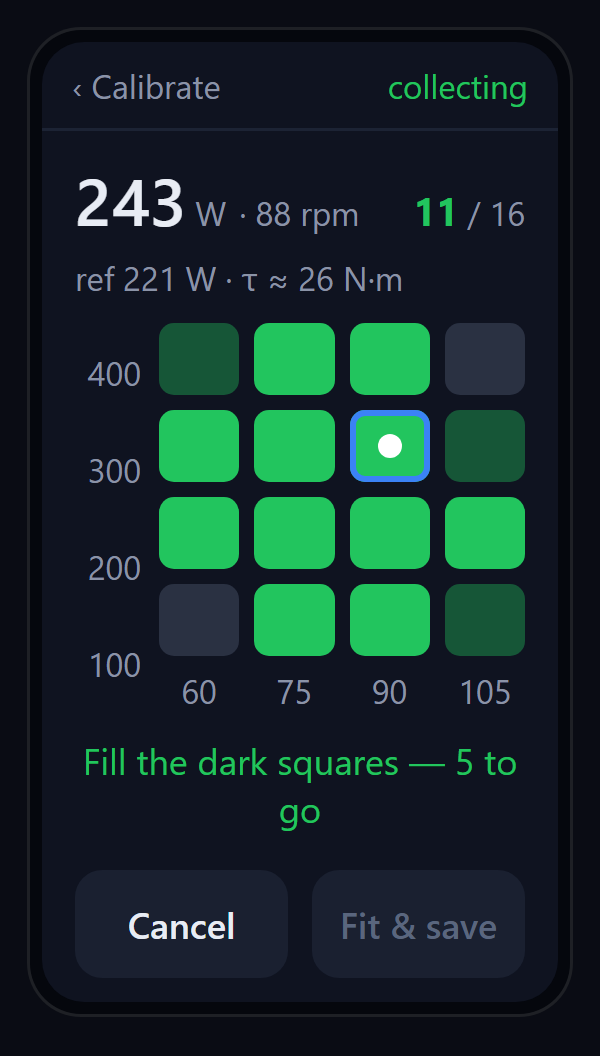
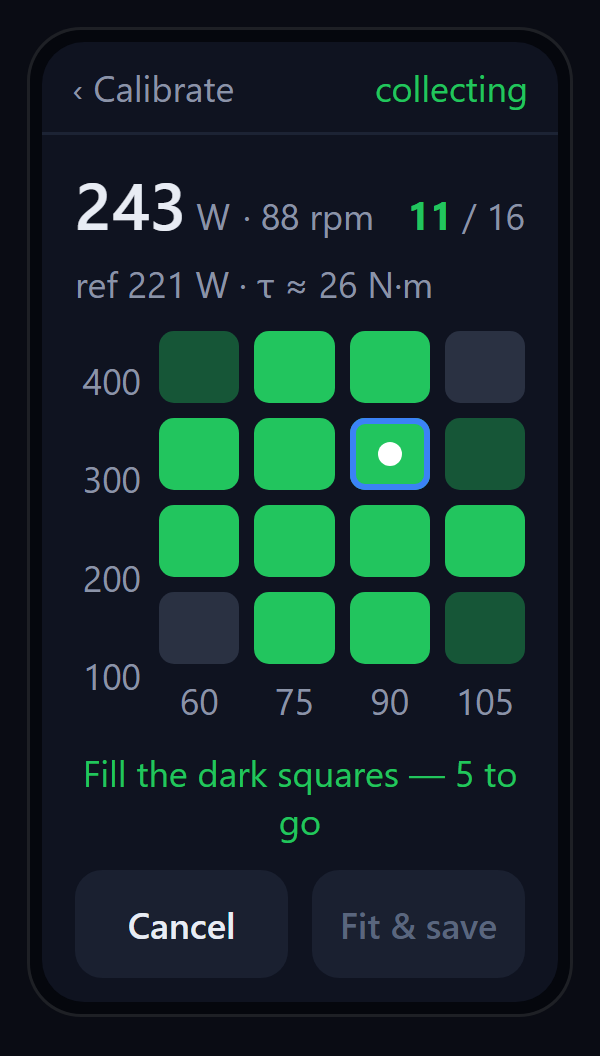
design: Calibrate coverage grid — apply 12px legibility floor (still fits)

diff --git a/design/sb20-lcd-calibrate-v2.html b/design/sb20-lcd-calibrate-v2.html
@@ -11,19 +11,19 @@ html,body{width:200px;overflow:hidden}
 body{margin:0;background:#0a0c14;color:var(--fg);font-family:system-ui,-apple-system,sans-serif;padding:9px}
 .dev{box-sizing:border-box;width:182px;margin:0 auto;padding:4px;background:#05070d;border:1px solid rgba(255,255,255,.1);border-radius:18px}
 .scr{width:172px;height:320px;background:var(--bg);color:var(--fg);border-radius:14px;overflow:hidden;display:flex;flex-direction:column}
-.tb{display:flex;align-items:center;justify-content:space-between;padding:7px 10px;font-size:11px;color:var(--mut);border-bottom:1px solid var(--line)}
+.tb{display:flex;align-items:center;justify-content:space-between;padding:7px 10px;font-size:12px;color:var(--mut);border-bottom:1px solid var(--line)}
 .bd{padding:8px 11px;display:flex;flex-direction:column;gap:6px;flex:1;min-height:0}
-.k{font-size:11px;color:var(--mut)}
-.u{font-size:11px;color:var(--mut)}
+.k{font-size:12px;color:var(--mut)}
+.u{font-size:12px;color:var(--mut)}
 .grid{display:grid;grid-template-columns:repeat(4,1fr);gap:5px}
 .gc{height:24px;border-radius:5px;background:var(--chip2)}
 .full{background:var(--ok)}
 .part{background:rgba(34,197,94,.38)}
 .now{position:relative;outline:2px solid var(--accent);outline-offset:-2px}
 .now::after{content:'';position:absolute;left:50%;top:50%;width:8px;height:8px;margin:-4px;border-radius:50%;background:#fff}
-.yax{display:flex;flex-direction:column;justify-content:space-around;align-items:flex-end;width:22px;font-size:11px;color:var(--mut)}
+.yax{display:flex;flex-direction:column;justify-content:space-around;align-items:flex-end;width:22px;font-size:12px;color:var(--mut)}
 .xax{display:grid;grid-template-columns:repeat(4,1fr);gap:5px;margin-top:4px}
-.xax span{text-align:center;font-size:11px;color:var(--mut)}
+.xax span{text-align:center;font-size:12px;color:var(--mut)}
 .btn{flex:1;text-align:center;padding:10px 0;border-radius:9px;font-size:12px;font-weight:500}
 .bgr{background:var(--card);color:var(--fg)}
 .bdim{background:var(--card);color:#5a667e}
